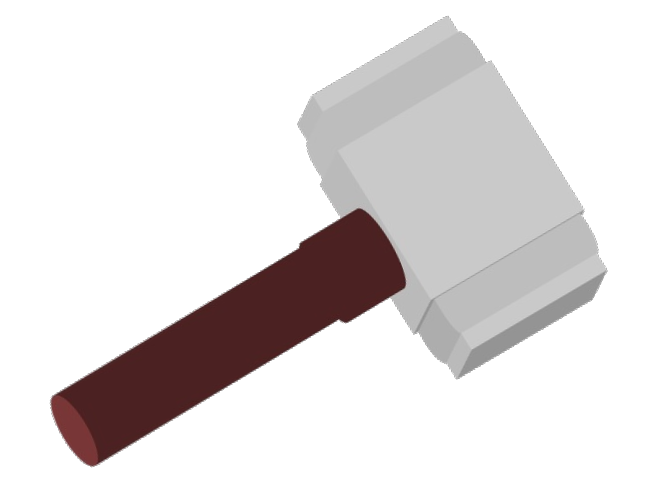
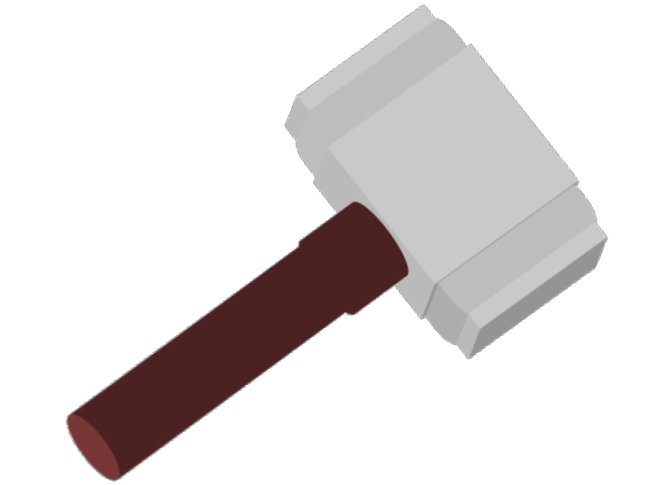
css fixe

diff --git a/CSS/Style.css b/CSS/Style.css
@@ -1,17 +1,17 @@
 #lingotFer{
-    padding-left: 47px;
+    padding-left: 30px;
     width: 200px;
     height: 200px;
 }
 
 #bois{
-    padding-left: 50px;
+    padding-left: 30px;
     width: 200px;
     height: 200px;
 }
 
 #cuir{
-    padding-left: 50px;
+    padding-left: 30px;
     width: 200px;
     height: 200px;
 }
@@ -40,7 +40,7 @@
 }
 
 #marteau{
-    width: 100px;
+    width: 95px;
     height: 69px;
 }
 
@@ -106,7 +106,7 @@ body{
 #fintab{
     margin: 0px;
     padding: 0px;
-    width: 20px;
+    width: 23px;
     background: url(../images/fintab.jpg);
     background-repeat:no-repeat;
     background-size: cover;
